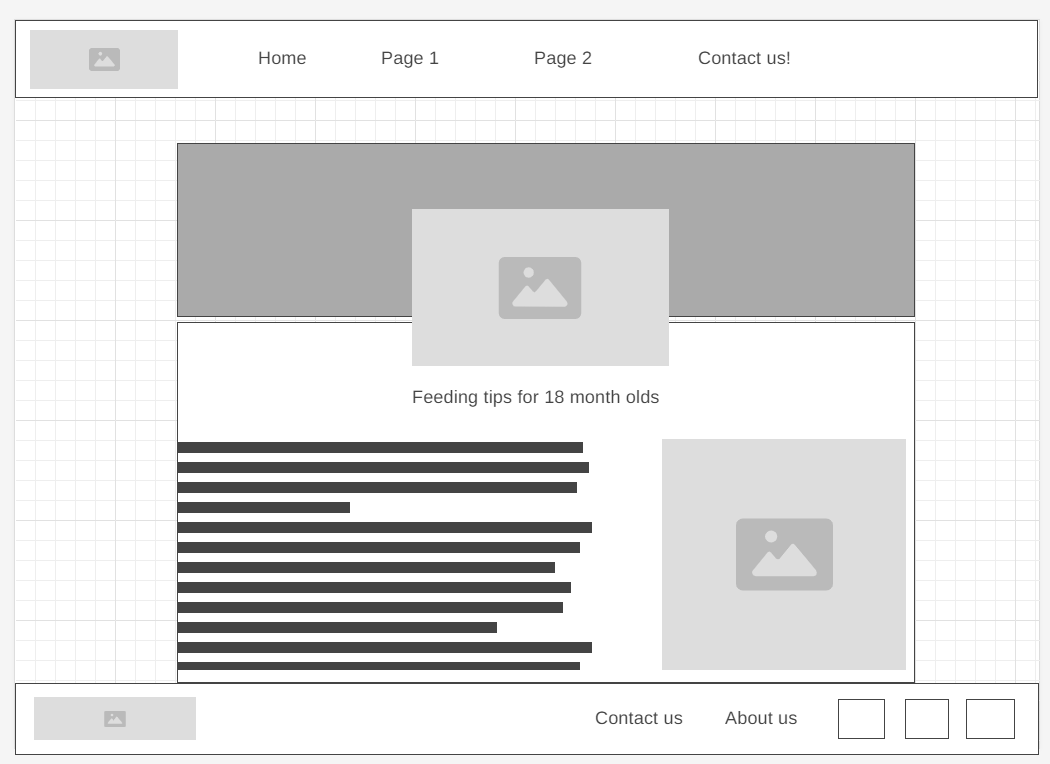
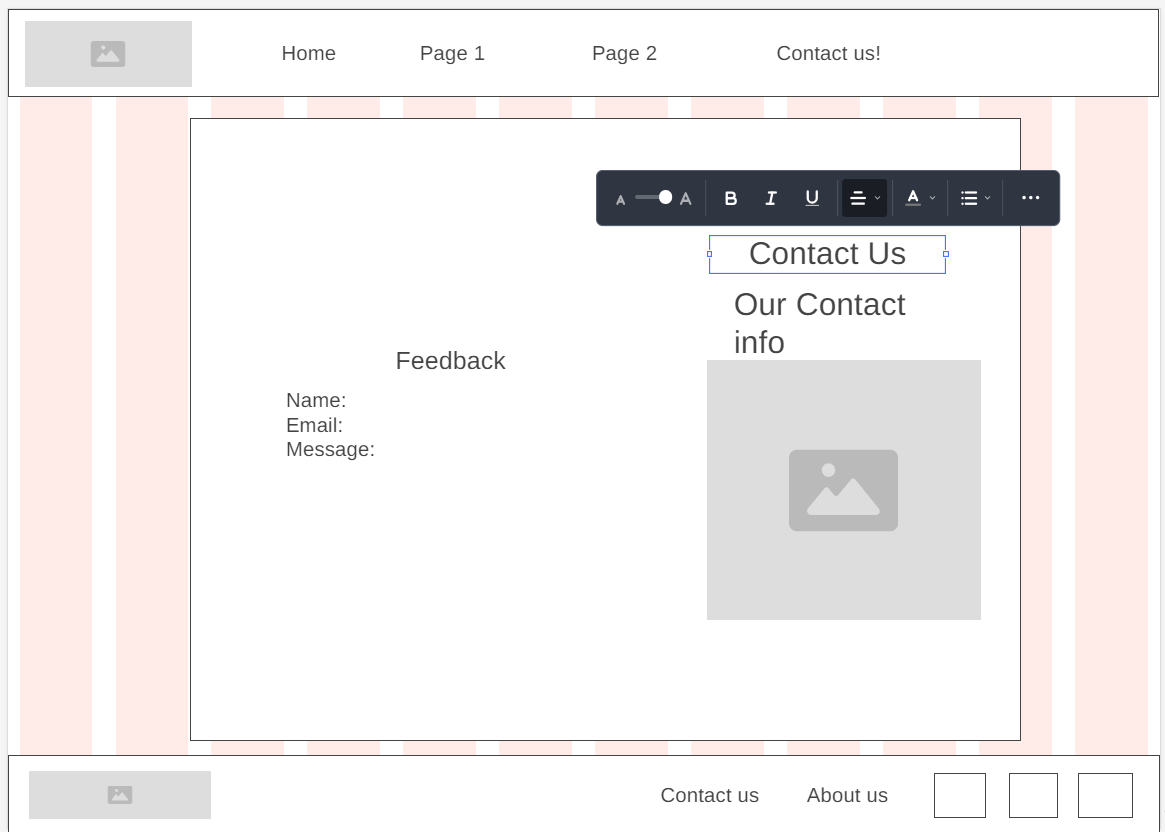
donedone

diff --git a/mypersonalsite/site-plan.html b/mypersonalsite/site-plan.html
@@ -128,7 +128,7 @@
         They will also get a brief mission statement for our webpage as well as link to our social media and contact info.
       </p>
       <p>Images for the Home page</p>
-        <img src="images/banana-oatmeal-pancakes.jpg" alt="banana-oatmeal-pancakes">
+        <img src="images/pancakes.jpg" alt="banana-oatmeal-pancakes">
         <img src="images/smoothie.jpg" alt="smoothie">
 
       </ul>
@@ -145,9 +145,7 @@
       </ul>
       <h3>[Page 3]</h3>
       <p>
-        This will be a breif informational section people can go to get feeding tips for thier kid depending on the age of the child.
-        itll list information on what different studies have shown and some examples of foods kids liek at that age.
-        It will also have a few pictures of kids around the age that they are looking up.
+        This will be the page where I give peopel my contac tinfo in case they want to send us any recipes or get a hold of us.
       </p>
       <p>Images for the Page 3</p>
         <img src="images/kidplaying.jpg" alt="kidplaying">

diff --git a/mypersonalsite/contact-us.html b/mypersonalsite/contact-us.html
@@ -49,7 +49,10 @@
         </div>
         <div class="right-container">
             <h1>Contact Us Directly</h1>
-            <p>About Me</p>
+            <p>Here at Baby Bytes we are eager to hear your feedback and feature your recipes! 
+                Feel free to contact us by email or phone number or directly send us your repices to our address
+                Thanks!
+            </p>
             <p>Email:Danielthemaniel@babyBytes.com</p>
             <p>Phone number: (123)456-7890</p>
             <iframe src="https://www.google.com/maps/embed?pb=!1m14!1m8!1m3!1d11515.291960977189!2d-111.7887751!3d43.8180309!3m2!1i1024!2i768!4f13.1!3m3!1m2!1s0x53540b074a301367%3A0x327e3e76c11d4c55!2sCasa%20De%20Ochoa!5e0!3m2!1sen!2sus!4v1712272468303!5m2!1sen!2sus" width="400" height="450" style="border:0;" allowfullscreen="" loading="lazy" referrerpolicy="no-referrer-when-downgrade"></iframe>
